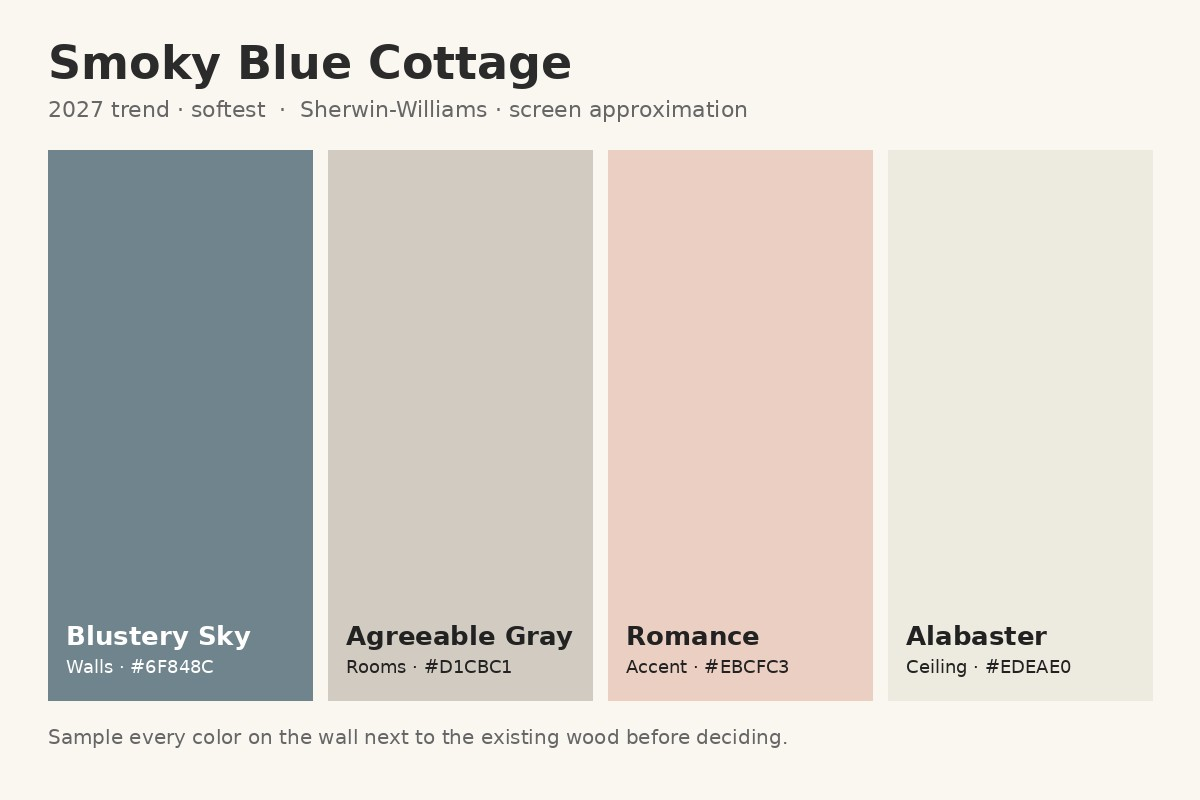
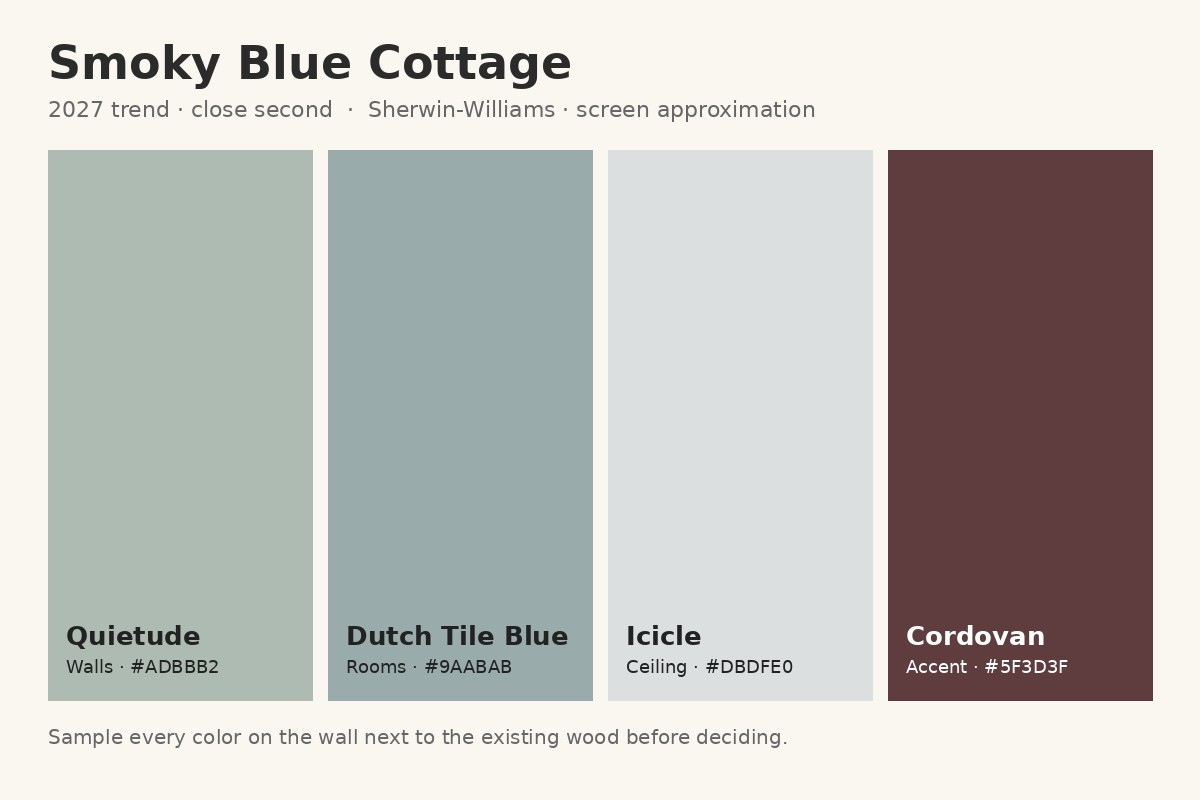
Trend looks: Researcher's SW codes, no pine notes, paint-only renders for living, kitchen, primary bedroom, office

diff --git a/js/trend-2027-looks.js b/js/trend-2027-looks.js
@@ -1,5 +1,5 @@
-/* 2027 trend palettes (color-only looks), added November 18, 2026 from the Interior Design Researcher's trend research.
- * No renders or products: those are built from real sourced products only if a look is chosen. */
+/* 2027 trend palettes, all Sherwin-Williams, added November 18, 2026 from the Interior Design Researcher's list.
+ * Paint-only renders on the real room photos; no furniture or products added. */
 (function () {
   if (typeof HOUSE === "undefined" || typeof HOUSE.applyExtraLooksFile !== "function") return;
   HOUSE.applyExtraLooksFile({ looks: [
@@ -7,50 +7,65 @@
     "id": "tr-moss-clay",
     "group": "house",
     "name": "Moss and Clay",
-    "kicker": "2027 trend \u00b7 my pick with the knotty pine",
-    "blurb": "Sherwin-Williams version: Roycroft Bronze Green office, Clary Sage living and kitchen, Celery (SW's 2027 Color of the Year) bedrooms, Canyon Clay accents, White Duck ceilings.",
-    "note": "All Sherwin-Williams, November 18, 2026. Room by room: living room and kitchen walls Clary Sage SW 6178; office walls Roycroft Bronze Green SW 2846 (very dark, LRV about 9, so office plus at most one living accent wall); primary bedroom and 3rd bedroom Celery SW 6421; laundry, hall and bath walls Clary Sage; painted ceilings and painted trim White Duck SW 7010; clay accent Canyon Clay SW 6054 on an interior door, pottery or textiles. Knotty pine, real wood trim and the laundry's wood ceiling stay unpainted. Color only: no renders or product set yet.",
-    "hero": "looks/tr-moss-clay-board.jpg",
+    "kicker": "2027 trend \u00b7 team pick",
+    "blurb": "Celery (Sherwin-Williams' 2027 Color of the Year) in the living, kitchen and dining areas, Artichoke office, Roycroft Bronze Green doors or built-ins, White Duck bedrooms and ceilings, Reynard clay-orange accents.",
+    "note": "Main house, all Sherwin-Williams, codes from SW's 2027 Colormix Rewild forecast and Color of the Year page (Interior Design Researcher, Nov 18, 2026). Room by room: living room, kitchen, dining, hall and laundry walls Celery SW 6421; office walls and at most one accent wall Artichoke SW 6179; interior doors or built-ins Roycroft Bronze Green SW 2846; primary bedroom, 3rd bedroom and bath walls White Duck SW 7010; painted ceilings and painted trim White Duck; Reynard SW 6348 in decor only. Real wood trim, the beam and the laundry's wood plank ceiling stay unpainted. Compare samples against the hard floors being kept and the new flooring sample. Renders (Nov 18, 2026): living room, kitchen, primary bedroom and office, paint only, each checked against the original photo.",
+    "hero": "looks/tr-moss-clay-living.jpg",
     "prefix": "tr-moss-clay",
     "board": "looks/tr-moss-clay-board.jpg",
-    "rooms": [],
-    "nowFiles": {},
-    "captions": {},
+    "rooms": [
+      "living",
+      "kitchen",
+      "master",
+      "office"
+    ],
+    "nowFiles": {
+      "living": "rooms/living.jpg",
+      "kitchen": "rooms/kitchen.jpg",
+      "master": "rooms/master.jpg",
+      "office": "rooms/office-7401.jpg"
+    },
+    "captions": {
+      "living": "Celery SW 6421 on the walls. Passed visual check. Paint-only render on the real photo: no furniture added, and doors, ceilings and floors are shown as they are today. Generated image: colors approximate the Sherwin-Williams swatches, so check real samples.",
+      "kitchen": "Celery SW 6421 on the kitchen walls (the island side and the room through the doorway also came out Celery). Passed visual check. Paint-only render on the real photo: no furniture added, and doors, ceilings and floors are shown as they are today. Generated image: colors approximate the Sherwin-Williams swatches, so check real samples.",
+      "master": "White Duck SW 7010 on the manufactured paneling; wood window and base trim left unpainted; carpet not changed here. Passed visual check. Paint-only render on the real photo: no furniture added, and doors, ceilings and floors are shown as they are today. Generated image: colors approximate the Sherwin-Williams swatches, so check real samples.",
+      "office": "Artichoke SW 6179 on the walls; wood wardrobes and window trim unpainted. Passed visual check. Paint-only render on the real photo: no furniture added, and doors, ceilings and floors are shown as they are today. Generated image: colors approximate the Sherwin-Williams swatches, so check real samples."
+    },
     "swatches": [
+      {
+        "id": "celery",
+        "name": "Celery",
+        "hex": "#E0DDBD",
+        "column": "Walls",
+        "use": "Living room, kitchen, dining, hall and laundry. Sherwin-Williams SW 6421, 2027 Color of the Year."
+      },
+      {
+        "id": "artichoke",
+        "name": "Artichoke",
+        "hex": "#7F8266",
+        "column": "Accent",
+        "use": "Office walls and at most one accent wall. Sherwin-Williams SW 6179."
+      },
       {
         "id": "roycroft-bronze-green",
         "name": "Roycroft Bronze Green",
         "hex": "#575449",
         "column": "Accent",
-        "use": "Office walls, plus at most one living-room accent wall. Sherwin-Williams SW 2846, from SW's 2027 Colormix palette; hex from Sherwin-Williams data."
-      },
-      {
-        "id": "clary-sage",
-        "name": "Clary Sage",
-        "hex": "#ACAD97",
-        "column": "Walls",
-        "use": "Living room, kitchen, laundry, hall and bath walls. Sherwin-Williams SW 6178; hex from sherwin-williams.com, checked Nov 18, 2026."
-      },
-      {
-        "id": "celery",
-        "name": "Celery",
-        "hex": "#E0DDBD",
-        "column": "Rooms",
-        "use": "Primary bedroom and 3rd bedroom. Sherwin-Williams SW 6421, the 2027 Color of the Year; hex from sherwin-williams.com, checked Nov 18, 2026."
-      },
-      {
-        "id": "canyon-clay",
-        "name": "Canyon Clay",
-        "hex": "#85594F",
-        "column": "Accent",
-        "use": "One interior door, pottery or textiles. Sherwin-Williams SW 6054."
+        "use": "Interior doors or built-ins. Sherwin-Williams SW 2846."
       },
       {
         "id": "white-duck",
         "name": "White Duck",
-        "hex": "#E6E0D3",
-        "column": "Ceiling",
-        "use": "Painted ceilings and painted trim only. Sherwin-Williams SW 7010, from SW's 2027 Colormix palette."
+        "hex": "#E5DFD2",
+        "column": "Rooms",
+        "use": "Bedrooms, bath, painted ceilings and painted trim. Sherwin-Williams SW 7010."
+      },
+      {
+        "id": "reynard",
+        "name": "Reynard",
+        "hex": "#B46848",
+        "column": "Decor",
+        "use": "Clay-orange note in textiles and pottery, not walls. Sherwin-Williams SW 6348."
       }
     ]
   },
@@ -58,43 +73,58 @@
     "id": "tr-smoky-blue",
     "group": "house",
     "name": "Smoky Blue Cottage",
-    "kicker": "2027 trend \u00b7 softest",
-    "blurb": "Sherwin-Williams version: Blustery Sky blue-gray living and office, Agreeable Gray everywhere else, a Romance blush accent, light wood floors.",
-    "note": "All Sherwin-Williams, November 18, 2026. Room by room: living room and office walls Blustery Sky SW 9140 (mid-tone, LRV about 22); kitchen, primary bedroom, 3rd bedroom, laundry, hall and bath walls Agreeable Gray SW 7029; one blush accent wall (3rd bedroom or the dining wall) Romance SW 6323; painted ceilings and painted trim Alabaster SW 7008. Blue beside orange-toned knotty pine is a strong contrast, so sample it next to the pine first. Knotty pine and real wood stay unpainted. Color only: no renders or product set yet.",
-    "hero": "looks/tr-smoky-blue-board.jpg",
+    "kicker": "2027 trend \u00b7 close second",
+    "blurb": "Quietude blue-green living areas, Dutch Tile Blue bedrooms and office, Icicle ceilings, Cordovan doors or one accent.",
+    "note": "Main house, all Sherwin-Williams (Interior Design Researcher, Nov 18, 2026). Room by room: living room, kitchen, dining, hall, laundry and bath walls Quietude SW 6212; primary bedroom, 3rd bedroom and office walls Dutch Tile Blue SW 0031; painted ceilings Icicle SW 6238; painted trim White Duck SW 7010; interior doors or one accent wall Cordovan SW 6027. Real wood trim, the beam and the laundry's wood plank ceiling stay unpainted. Renders (Nov 18, 2026): living room, kitchen, primary bedroom and office, paint only, each checked against the original photo.",
+    "hero": "looks/tr-smoky-blue-living.jpg",
     "prefix": "tr-smoky-blue",
     "board": "looks/tr-smoky-blue-board.jpg",
-    "rooms": [],
-    "nowFiles": {},
-    "captions": {},
+    "rooms": [
+      "living",
+      "kitchen",
+      "master",
+      "office"
+    ],
+    "nowFiles": {
+      "living": "rooms/living.jpg",
+      "kitchen": "rooms/kitchen.jpg",
+      "master": "rooms/master.jpg",
+      "office": "rooms/office-7401.jpg"
+    },
+    "captions": {
+      "living": "Quietude SW 6212 on the walls. Passed visual check. Paint-only render on the real photo: no furniture added, and doors, ceilings and floors are shown as they are today. Generated image: colors approximate the Sherwin-Williams swatches, so check real samples.",
+      "kitchen": "Quietude SW 6212 on the kitchen walls. Passed visual check. Paint-only render on the real photo: no furniture added, and doors, ceilings and floors are shown as they are today. Generated image: colors approximate the Sherwin-Williams swatches, so check real samples.",
+      "master": "Dutch Tile Blue SW 0031 on the manufactured paneling; wood window and base trim left unpainted; carpet not changed here. Passed visual check. Paint-only render on the real photo: no furniture added, and doors, ceilings and floors are shown as they are today. Generated image: colors approximate the Sherwin-Williams swatches, so check real samples.",
+      "office": "Dutch Tile Blue SW 0031 on the walls; wood wardrobes and window trim unpainted. Passed visual check. Paint-only render on the real photo: no furniture added, and doors, ceilings and floors are shown as they are today. Generated image: colors approximate the Sherwin-Williams swatches, so check real samples."
+    },
     "swatches": [
       {
-        "id": "blustery-sky",
-        "name": "Blustery Sky",
-        "hex": "#6F848C",
+        "id": "quietude",
+        "name": "Quietude",
+        "hex": "#ADBBB2",
         "column": "Walls",
-        "use": "Living room and office walls. Sherwin-Williams SW 9140; hex from sherwin-williams.com, checked Nov 18, 2026."
+        "use": "Living room, kitchen, dining, hall, laundry and bath. Sherwin-Williams SW 6212."
       },
       {
-        "id": "agreeable-gray",
-        "name": "Agreeable Gray",
-        "hex": "#D1CBC1",
+        "id": "dutch-tile-blue",
+        "name": "Dutch Tile Blue",
+        "hex": "#9AABAB",
         "column": "Rooms",
-        "use": "Kitchen, bedrooms, laundry, hall and bath. Sherwin-Williams SW 7029."
+        "use": "Bedrooms and office. Sherwin-Williams SW 0031."
       },
       {
-        "id": "romance",
-        "name": "Romance",
-        "hex": "#EBCFC3",
-        "column": "Accent",
-        "use": "One accent wall only. Sherwin-Williams SW 6323."
-      },
-      {
-        "id": "alabaster",
-        "name": "Alabaster",
-        "hex": "#EDEAE0",
+        "id": "icicle",
+        "name": "Icicle",
+        "hex": "#DBDFE0",
         "column": "Ceiling",
-        "use": "Painted ceilings and painted trim only. Sherwin-Williams SW 7008."
+        "use": "Painted ceilings. Sherwin-Williams SW 6238."
+      },
+      {
+        "id": "cordovan",
+        "name": "Cordovan",
+        "hex": "#5F3D3F",
+        "column": "Accent",
+        "use": "Interior doors or one accent wall. Sherwin-Williams SW 6027."
       }
     ]
   },
@@ -103,42 +133,57 @@
     "group": "house",
     "name": "Rewild Cabin",
     "kicker": "2027 trend \u00b7 warmest",
-    "blurb": "Universal Khaki walls, Red Barn doors, Bitter Chocolate built-ins, Alabaster ceilings, rich brown floors. All from Sherwin-Williams' 2027 Colormix palette except Alabaster.",
-    "note": "All Sherwin-Williams, November 18, 2026. Room by room: living room, kitchen, office, hall and laundry walls Universal Khaki SW 6150; primary bedroom, 3rd bedroom and bath walls Alabaster SW 7008 to keep them lighter; interior doors Red Barn SW 7591; built-ins or one accent wall away from the pine Bitter Chocolate SW 6013; painted ceilings and painted trim Alabaster. The dark browns never go on walls touching the knotty pine. Color only: no renders or product set yet.",
-    "hero": "looks/tr-rewild-board.jpg",
+    "blurb": "Universal Khaki main walls, Clove doors and built-ins, one Red Barn wall, White Duck bedrooms and ceilings.",
+    "note": "Main house, all Sherwin-Williams (Interior Design Researcher, Nov 18, 2026). Room by room: living room, kitchen, hall, laundry and bath walls Universal Khaki SW 6150 (High Sierra SW 9588 is the softer alternate); office walls Red Barn SW 7591 as the one bold room; primary bedroom and 3rd bedroom walls White Duck SW 7010; interior doors and built-ins Clove SW 9605; painted ceilings and painted trim White Duck. Real wood trim, the beam and the laundry's wood plank ceiling stay unpainted. Renders (Nov 18, 2026): living room, kitchen, primary bedroom and office, paint only, each checked against the original photo.",
+    "hero": "looks/tr-rewild-living.jpg",
     "prefix": "tr-rewild",
     "board": "looks/tr-rewild-board.jpg",
-    "rooms": [],
-    "nowFiles": {},
-    "captions": {},
+    "rooms": [
+      "living",
+      "kitchen",
+      "master",
+      "office"
+    ],
+    "nowFiles": {
+      "living": "rooms/living.jpg",
+      "kitchen": "rooms/kitchen.jpg",
+      "master": "rooms/master.jpg",
+      "office": "rooms/office-7401.jpg"
+    },
+    "captions": {
+      "living": "Universal Khaki SW 6150 on the walls. Passed visual check. Paint-only render on the real photo: no furniture added, and doors, ceilings and floors are shown as they are today. Generated image: colors approximate the Sherwin-Williams swatches, so check real samples.",
+      "kitchen": "Universal Khaki SW 6150 on the kitchen walls. Passed visual check. Paint-only render on the real photo: no furniture added, and doors, ceilings and floors are shown as they are today. Generated image: colors approximate the Sherwin-Williams swatches, so check real samples.",
+      "master": "White Duck SW 7010 on the manufactured paneling (same as Moss and Clay's bedroom); wood window and base trim left unpainted; carpet not changed here. Passed visual check. Paint-only render on the real photo: no furniture added, and doors, ceilings and floors are shown as they are today. Generated image: colors approximate the Sherwin-Williams swatches, so check real samples.",
+      "office": "Red Barn SW 7591 on the walls (the white baseboard also came out red; the plan is White Duck trim). Wood wardrobes and window trim unpainted. Passed visual check. Paint-only render on the real photo: no furniture added, and doors, ceilings and floors are shown as they are today. Generated image: colors approximate the Sherwin-Williams swatches, so check real samples."
+    },
     "swatches": [
       {
         "id": "universal-khaki",
         "name": "Universal Khaki",
         "hex": "#B8A992",
         "column": "Walls",
-        "use": "Living room, kitchen, office, hall and laundry. Sherwin-Williams SW 6150; hex from Sherwin-Williams data, checked Nov 18, 2026."
+        "use": "Living room, kitchen, hall, laundry and bath. Sherwin-Williams SW 6150."
       },
       {
         "id": "red-barn",
         "name": "Red Barn",
         "hex": "#7C453D",
         "column": "Accent",
-        "use": "Interior doors. Sherwin-Williams SW 7591."
+        "use": "Office walls, the one bold room. Sherwin-Williams SW 7591."
       },
       {
-        "id": "bitter-chocolate",
-        "name": "Bitter Chocolate",
-        "hex": "#4D3C3C",
+        "id": "clove",
+        "name": "Clove",
+        "hex": "#453E39",
         "column": "Accent",
-        "use": "Built-ins or one accent wall away from the pine. Sherwin-Williams SW 6013."
+        "use": "Interior doors and built-ins. Sherwin-Williams SW 9605."
       },
       {
-        "id": "alabaster",
-        "name": "Alabaster",
-        "hex": "#EDEAE0",
+        "id": "white-duck",
+        "name": "White Duck",
+        "hex": "#E5DFD2",
         "column": "Rooms",
-        "use": "Bedrooms, bath, painted ceilings and painted trim. Sherwin-Williams SW 7008."
+        "use": "Bedrooms, painted ceilings and painted trim. Sherwin-Williams SW 7010."
       }
     ]
   }

diff --git a/js/looks-registry.js b/js/looks-registry.js
@@ -28,9 +28,9 @@
     { id: "ext-classic", status: "active", scope: "exterior", accents: ["Alabaster siding and trim", "Tricorn Black door", "Matte black lantern", "Boxwood row"] },
     { id: "ext-charcoal-cedar", status: "active", scope: "exterior", accents: ["Peppercorn charcoal siding and trim", "Rough-sawn cedar under the windows", "Existing wood door", "Black barn light", "Brass numbers"] },
     /* 2027 trend palettes (color only, Sherwin-Williams), November 18, 2026 */
-    { id: "tr-moss-clay", status: "active", accents: ["Clary Sage walls", "Roycroft Bronze Green office", "Celery bedrooms", "Canyon Clay accents", "White Duck ceilings"] },
-    { id: "tr-smoky-blue", status: "active", accents: ["Blustery Sky walls", "Agreeable Gray", "Romance blush accent", "Alabaster ceilings"] },
-    { id: "tr-rewild", status: "active", accents: ["Universal Khaki walls", "Red Barn doors", "Bitter Chocolate built-ins", "Alabaster ceilings"] },
+    { id: "tr-moss-clay", status: "active", accents: ["Celery walls", "Artichoke office", "Roycroft Bronze Green doors", "White Duck bedrooms and ceilings", "Reynard accents"] },
+    { id: "tr-smoky-blue", status: "active", accents: ["Quietude walls", "Dutch Tile Blue bedrooms", "Icicle ceilings", "Cordovan doors"] },
+    { id: "tr-rewild", status: "active", accents: ["Universal Khaki walls", "Red Barn office", "Clove doors", "White Duck bedrooms and ceilings"] },
     /* Nautical variants, November 11, 2026 */
     { id: "nt-navy", status: "active", accents: ["Navy walls", "Signal-red textiles", "Brass", "Rope", "Stripes"] },
     { id: "nt-keeper", status: "active", accents: ["Rookwood dark green", "Barn-red textiles", "Rope", "Brass", "Weathered teak", "No blue"] },
